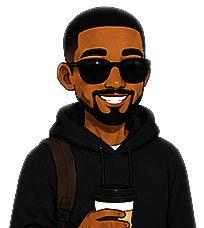
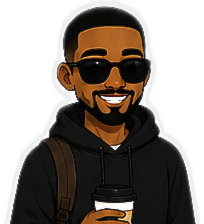
e

diff --git a/style.css b/style.css
@@ -4370,8 +4370,6 @@ user-select:none;
 
 -webkit-user-drag:none;
 
-pointer-events:none;
-
 }
 
 /* Pour avatars uniquement (plus propre) */
@@ -4387,7 +4385,5 @@ pointer-events:none;
 user-select:none;
 
 -webkit-user-drag:none;
-
-pointer-events:none;
 
 }

diff --git a/avatar.html b/avatar.html
@@ -51,7 +51,7 @@ Choisis ton identité Smart Campus
 <img
 id="selected-avatar"
 class="selected-avatar"
-src="assets/avatars/garcons/g1.png">
+src="assets/default-user.png">
 
 <div class="avatar-security">
 
